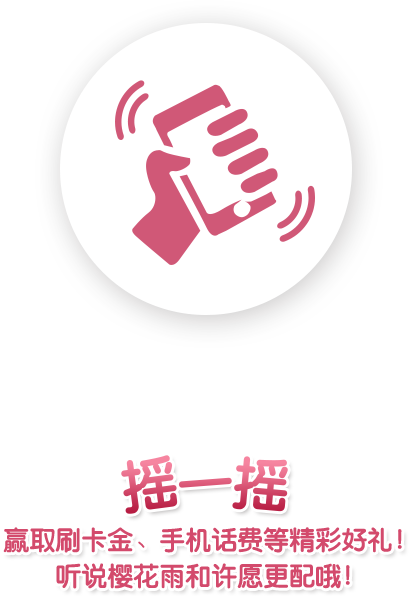
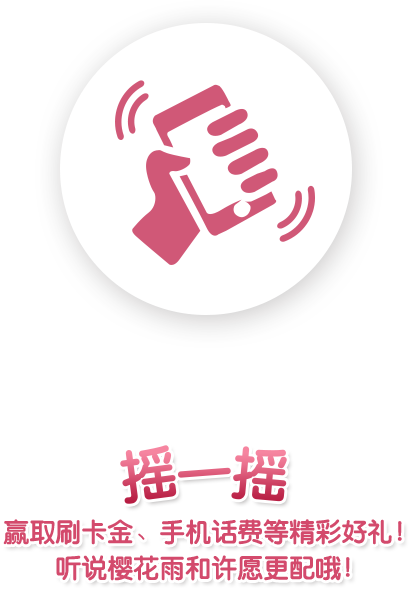
css adjust 4-30

diff --git a/css/style.css b/css/style.css
@@ -16,6 +16,7 @@
 .swiper-slide{ position:relative; overflow: hidden;}
 .logo{ position: absolute; top: 30px; left: 30px; z-index: 2;}
 .arrowbox{ position: absolute; left: 50%;  bottom: 30px; margin-left:-108px; width: 215px;}
+.arrowbox2{ margin-left:-141px; width: 282px; }
 .arrowbox img{ margin:10px auto; }
 
 /*page1*/

diff --git a/index.html b/index.html
@@ -62,7 +62,7 @@
       <!--page2-->  
         <div class="swiper-slide bg2">
           <img class="logo" src="img/logo.png">
-          <div class="arrowbox">
+          <div class="arrowbox arrowbox2">
             <img src="img/arrowTxt2.png">
             <img src="img/arrowImg.png">
           </div>
